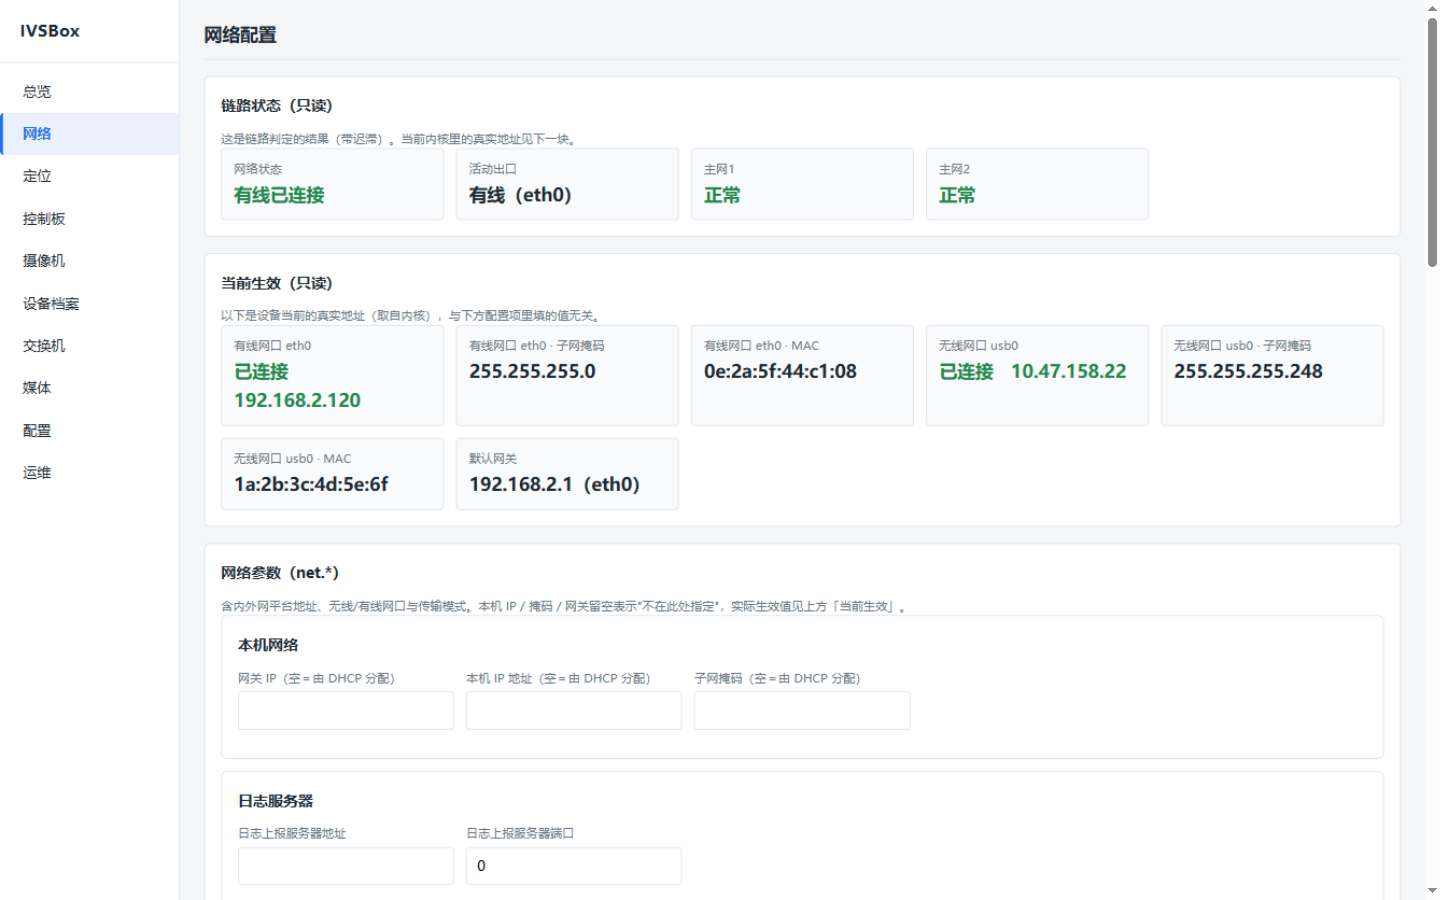
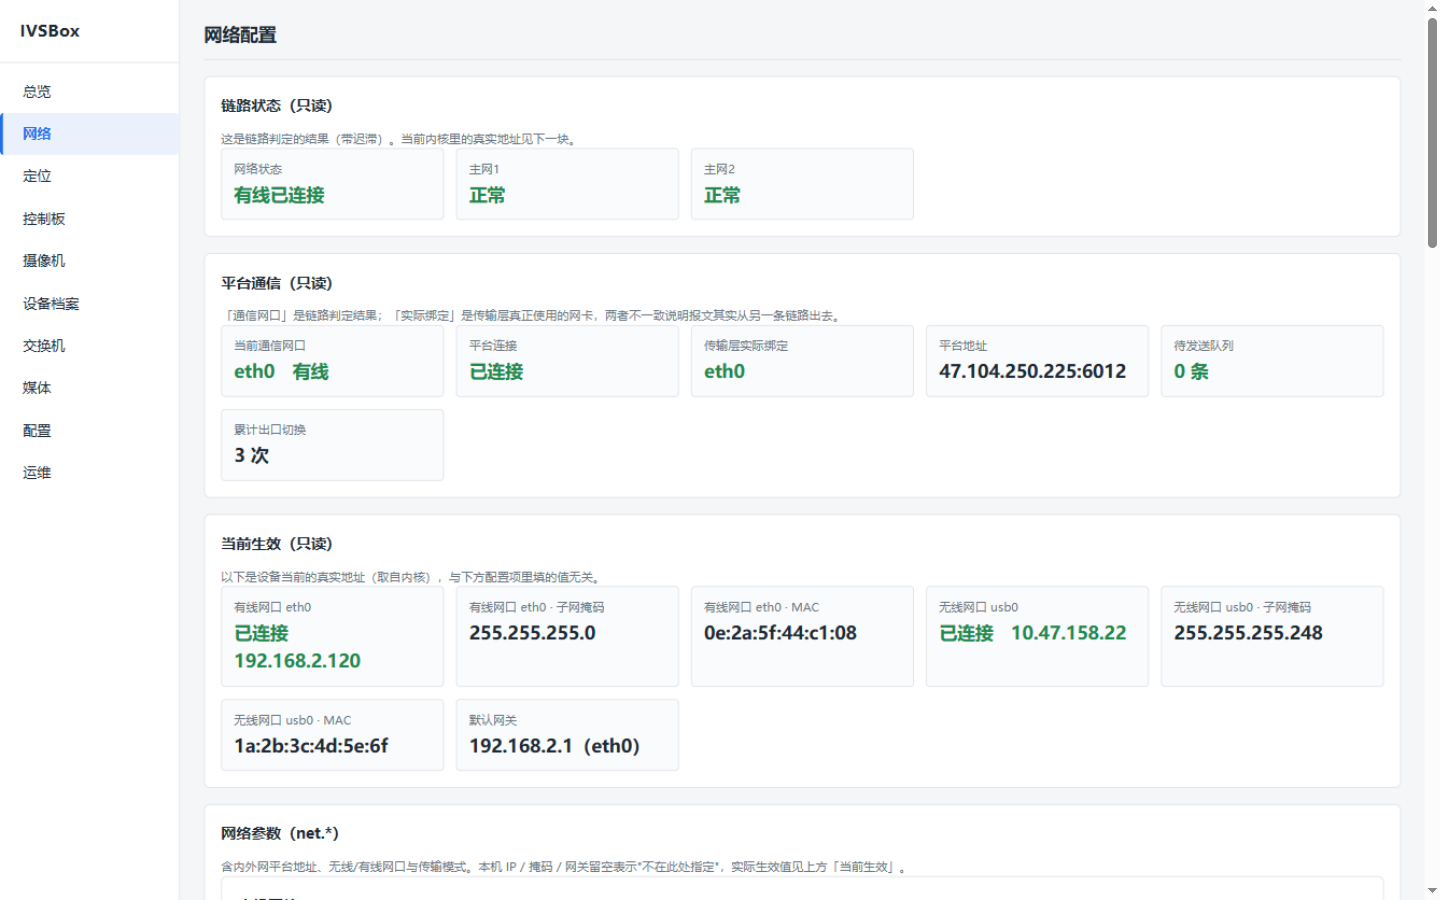
docs(web): 重设计交付同步 10dfbf1 —— 网络页补「平台通信」卡
- mock overview 补 net.wan（形状照抄 build_wan_view() 输出）
- 原型网络页：3 状态卡＋平台通信卡＋两网卡；活动出口移入平台通信卡
- 方案 §5.3 设计说明、§6.6 加 bound_ok 后端算好/前端不重算约束
- 现状/设计稿 03-网络.png 按合并后代码与原型重截

diff --git a/web_ui_redesign/prototype.html b/web_ui_redesign/prototype.html
@@ -514,11 +514,21 @@ overview: function () {
 net: function () {
   var n = DATA.net;
   h(
-    '<div class="grid g4">' +
+    '<div class="grid g3">' +
       metric('网络状态', '<span style="font-size:18px">' + n.state.text + '</span>', '', '', '<div class="foot">' + pill(n.state.cls, '链路判定 · 带迟滞') + '</div>') +
-      metric('活动出口', '<span style="font-size:18px">' + n.exit + '</span>', '', '', '<div class="foot">出口绑定：传输层 SO_BINDTODEVICE</div>') +
-      metric('主网1', '<span style="font-size:18px">' + n.mn1.text + '</span>', '', '', '<div class="foot">' + pill(n.mn1.cls, '探测 ' + '47.104.250.225') + '</div>') +
+      metric('主网1', '<span style="font-size:18px">' + n.mn1.text + '</span>', '', '', '<div class="foot">' + pill(n.mn1.cls, '探测 47.104.250.225') + '</div>') +
       metric('主网2', '<span style="font-size:18px">' + n.mn2.text + '</span>', '', '', '<div class="foot">' + pill(n.mn2.cls, '探测 114.114.114.114') + '</div>') +
+    '</div>' +
+    '<div class="card mt16"><h3><span class="bar"></span>平台通信（只读）</h3>' +
+      '<p class="sub">「通信网口」是链路判定结果；「实际绑定」是传输层真正使用的网卡 —— 两者不一致说明报文其实从另一条链路出去（2026-10-19 就出过这事）。</p>' +
+      '<dl class="desc-list">' +
+        '<div><dt>当前通信网口</dt><dd>' + pill('ok', 'eth0 · 有线') + '</dd></div>' +
+        '<div><dt>平台连接</dt><dd>' + pill('ok', '已连接') + '</dd></div>' +
+        '<div><dt>传输层实际绑定</dt><dd class="num">' + pill('ok', 'eth0（一致）') + '</dd></div>' +
+        '<div><dt>平台地址</dt><dd class="num mono">47.104.250.225:6012</dd></div>' +
+        '<div><dt>待发送队列</dt><dd class="num">0</dd></div>' +
+        '<div><dt>累计出口切换</dt><dd class="num">3 次（失败 0）</dd></div>' +
+      '</dl>' +
     '</div>' +
     '<div class="grid g2 mt16">' +
       '<div class="card"><h3><span class="bar"></span>有线网口 eth0</h3><p class="sub">内核实际地址 · 与下方配置无关</p>' +

diff --git a/web_ui_redesign/Web界面重设计方案.md b/web_ui_redesign/Web界面重设计方案.md
@@ -105,7 +105,8 @@
 - 右卡「写入设备身份」：三条警示缩成一行 ⚠ 提示；两个输入框 + 写入按钮收在操作条。
 
 ### 5.3 网络（现状 03 → 设计稿 03）
-- 顶部 4 张状态卡：网络状态 / 活动出口 / 主网1 / 主网2，脚注放语义徽标（链路判定带迟滞、探测目标）。
+- 顶部 3 张状态卡：网络状态 / 主网1 / 主网2，脚注放语义徽标（链路判定带迟滞、探测目标）。原「活动出口」一项移入下方平台通信卡（同一事实不重复展示）。
+- 「平台通信（只读）」卡：main 分支 10dfbf1（2026-10-19）新增的能力，展示"报文此刻从哪个网口出去"——当前通信网口、平台连接、传输层实际绑定（不一致时报 err 徽标）、平台地址、待发送队列、累计出口切换；副标题保留"判定 vs 事实"的解释文案。重设计把 7 行 KV 升级为描述列表 + 状态徽标。
 - eth0 / usb0 各一张网口卡（状态徽标 + IP/掩码/MAC 描述列表），替代原先 7 个碎 KV 块。
 - 「网络参数」表单卡：分组框（本机网络 `net.*`、平台服务器 `net.server.*`），组标题右上角淡键前缀；吸底操作条显示脏值与版本。
 
@@ -153,7 +154,7 @@
 3. **继电器控制**：下发 0xD1 后按钮冷却 2.2s 回读一次、5s 再回读一次并解锁（采集板镜像滞后一拍，只回读一次会出现"点了没生效"）；失败提示"同命令在飞"分支保留。改用模态确认时，确认正文需保留 `0xD1 port N status=0/1` 协议信息。
 4. **null ≠ 0 ≠ 空串**：后端取不到的值是 JSON null，显示"—"；GPS 坐标只在 `valid` 为真时显示；`sn_source === 'default'` 时 SN 用告警样式（设计稿中的橙徽标）。
 5. **配置表单**：中文标签来源是 `GET /api/config?defaults=1` 的 `d` 字段（与配置文件注释同源），不得前端另抄对照表；`title` 悬停显示完整键名的行为保留（可升级为组标题键前缀 + 悬停兜底）；脏值跟踪（`.dirty` 高亮）、版本号提交、`e === -3` 版本冲突提示保留。
-6. **只读与可写分离**：网络页「当前生效」取自内核（`/api/overview` 的 `d.net.link`），与配置项留空语义（"不在此指定"）不能混。
+6. **只读与可写分离**：网络页「当前生效」取自内核（`/api/overview` 的 `d.net.link`），与配置项留空语义（"不在此指定"）不能混；「平台通信」卡读 `d.net.wan`（10dfbf1），`bound_ok` 已由后端算好，前端**不得自行重算判定**，只渲染徽标与文案口径（"与通信网口不一致"/"未绑定，走内核默认路由"）。
 7. **自动刷新**：GPS / 控制板页现有 5s 定时刷新保留；新增的页头"自动刷新"开关与"更新于"时间戳是纯前端增强，不改变轮询实现。
 8. **资源引用**：图标用 `web_ui_images/icons/`（ISC 许可头部注释勿删）；logo/favicon 用 `web_ui_images/brand/`；登录背景可用 `web_ui_images/login/` 或按原型内联渐变实现。
 9. **兼容目标**：设备端浏览器以 Chrome/Edge 现代版为主；无需支持 IE；静态资源总体积增量控制在 100KB 内（当前 style.css 约 6KB，重写后预计 15~25KB，无构建链，保持原生 CSS/JS，不引入框架）。

diff --git a/ivsbox/docs/修改记录.md b/ivsbox/docs/修改记录.md
@@ -20,6 +20,18 @@
 - **验证结果**：如何验证、结果如何。
 ```
 
+## 2026-10-19 11:25
+
+- **修改文件**
+  - `web_ui_redesign/mock_server.mjs`（overview 响应补 `net.wan` 块）
+  - `web_ui_redesign/prototype.html`（网络页新增「平台通信（只读）」卡）
+  - `web_ui_redesign/Web界面重设计方案.md`（§5.3 / §6.6 同步）
+  - `web_ui_redesign/现状截图/03-网络.png`、`web_ui_redesign/设计稿/03-网络.png`（重截）
+  - `ivsbox/docs/修改记录.md`、`ivsbox/docs/代码说明.adoc`（本条登记）
+- **问题 / 目的**：11:11 那条交付基于 `5c7215e` 截图与设计；合并时发现 main 已被并行会话推进到 `10dfbf1`（网络页新增「平台通信（只读）」卡，展示当前通信网口与传输层绑定）。重设计交付若不吸收，网络页设计稿会缺一块现网已有的一等信息。
+- **处理方式**：mock 服务器 overview 补 `net.wan`（10dfbf1 定义的形状：ifname/kind/switches/txn_fail/bound/bound_ok/transport/server/port/queue/bind_fail/bind_errno）；原型网络页改为「3 状态卡 ＋ 平台通信卡 ＋ 两网卡 ＋ 配置」布局，"活动出口"按对方口径移入平台通信卡不重复展示；方案 §5.3 补该卡设计说明、§6.6 加"`bound_ok` 后端算好、前端不得重算"约束；现状/设计稿 03 两张按合并后代码与原型重截。
+- **验证结果**：合并后真实 `app.js` 在 mock 下渲染出平台通信卡（现状 03 可见 7 行数据）；设计稿 03 平台通信卡含状态徽标；`node --check` 通过。
+
 ## 2026-10-19 11:11
 
 - **修改文件**
